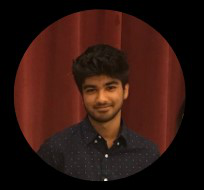
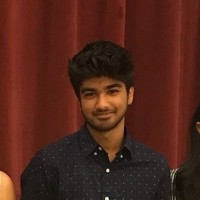
commit again

diff --git a/src/components/Mission.js b/src/components/Mission.js
@@ -16,12 +16,38 @@ function Mission() {
 
                     <h2 className='ourteam'>Our Team.</h2>
                     <div className='teamimages'>
-                        <img src='images/abhi.png' />
                         <img src='images/kirthi.png' />
-                        <img src='images/arkapt2.jpg' />
-                        <img src='images/arvind.png' />
-                        <img src='images/paras.png' />
+                        <img src='images/arkapt3.png' />
+                        <img src='images/abhi.png' />
                         
+                    </div>
+
+                    <div className='names'>
+                        <h4>Kirthi Ramesh</h4>
+                        <h4>Arka Bose</h4>
+                        <h4>Sriabhi Venkat</h4>
+                    </div>
+
+                    <div className='titles'>
+                        <h5>Chief Executive Officer</h5>
+                        <h5>Chief Operating Officer</h5>
+                        <h5>Chief Technical Officer</h5>
+
+                    </div>
+
+                    <div className='teamimages'>
+                        <img src='images/arvind.png' />
+                        <img src='images/paras3.png' />
+                    </div>
+
+                    <div className='names'>
+                        <h4>Arvind Balaji</h4>
+                        <h4>Paras Amin</h4>
+                    </div>
+
+                    <div className='titles1'>
+                        <h5>VP of Software Engineering</h5>
+                        <h5>Director of Monetization</h5>
                     </div>
                 </div>
         </>

diff --git a/src/components/Mission.css b/src/components/Mission.css
@@ -50,3 +50,39 @@ h2 {
   margin-right: auto;
   border-radius: 50%;
 }
+
+.names {
+  display: flex;
+  height: 50px;
+  margin-top: 20px;
+  justify-content: center;
+  font-size: 3rem;
+}
+
+.titles {
+  display: flex;
+  height: 10vh;
+  justify-content: center;
+  font-size: 3rem;
+}
+
+.titles1 {
+  display: flex;
+  height: 40vh;
+  justify-content: center;
+  font-size: 3rem;
+}
+
+h4 {
+  color: black;
+  font-size: 30px;
+  margin-left: auto;
+  margin-right: auto;
+}
+
+h5 {
+  color: black;
+  font-size: 30px;
+  margin-left: auto;
+  margin-right: auto;
+}

diff --git a/src/components/Cards.js b/src/components/Cards.js
@@ -6,7 +6,7 @@ import './Cards.css';
 function Cards() {
     return(
         <div className="cards">
-            <h4>Our Services</h4>
+            <h1>Our Services</h1>
             <div className="cards__container">
                 <div className="cards__wrapper">
                     <ul className="cards__items">
